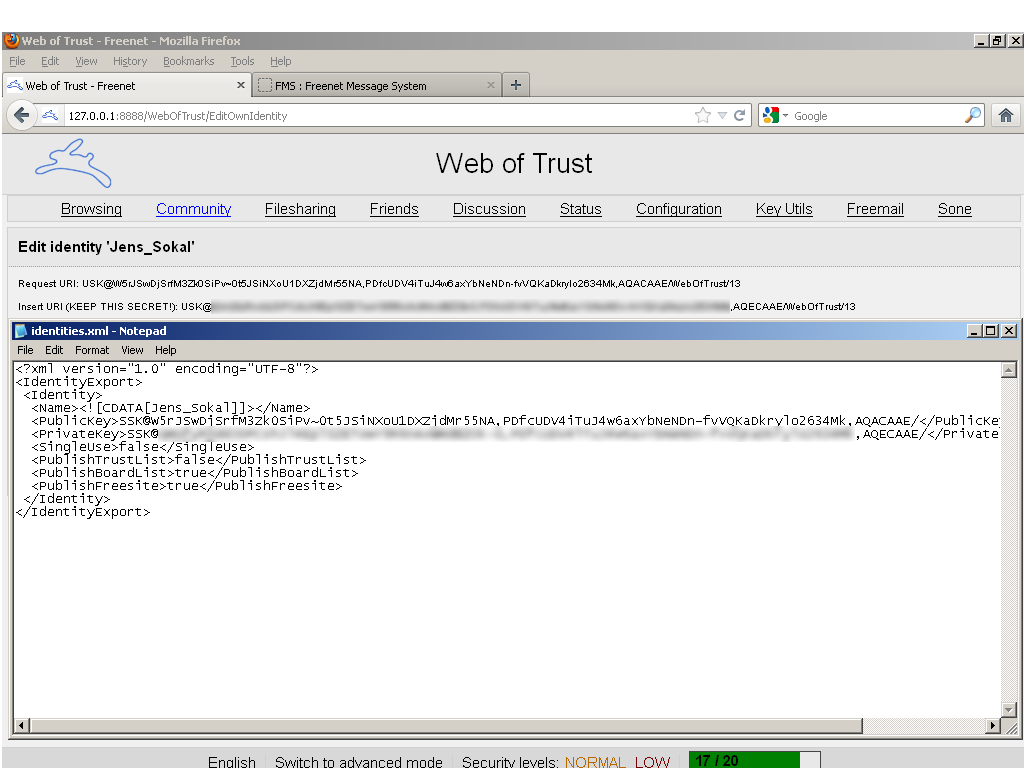
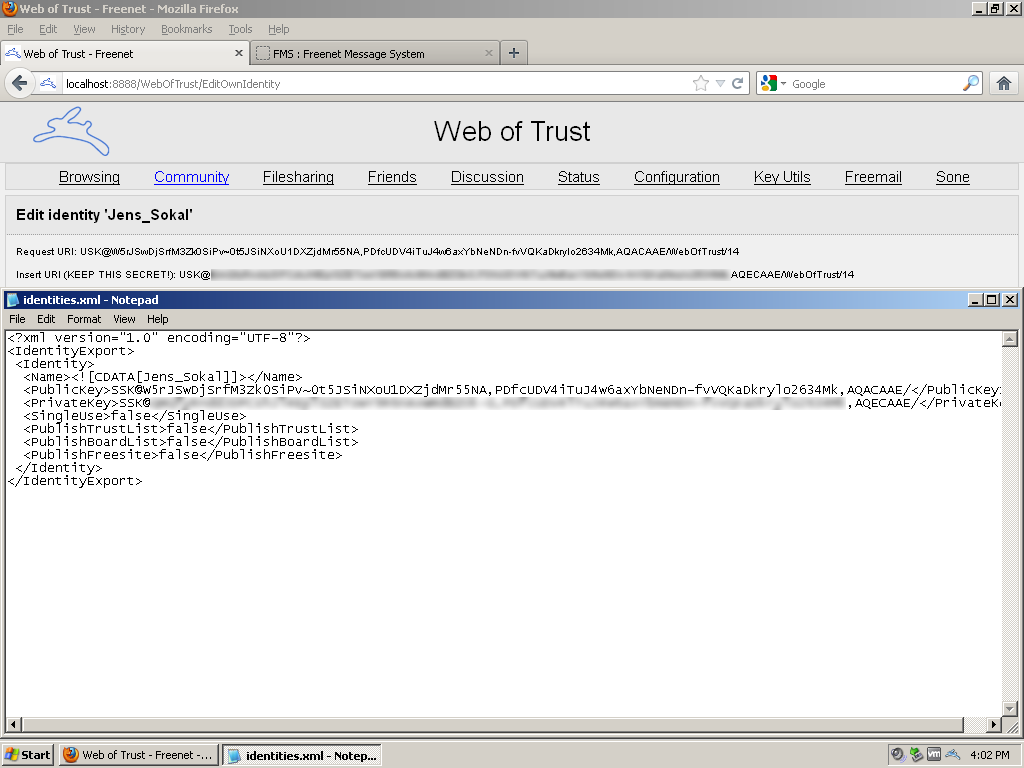
correct identities.xml and improve explaination of WoT-FMS linked identities

diff --git a/fms.html b/fms.html
@@ -81,10 +81,10 @@
 			<p>Go to the Options page.</p>
 			<p><a href="images/setup074.png"><img src="images/setup074.png" width="640" height="480" alt="Step 6" /></a></p>
 		</li>
-		<li><p>Enable WOT support and save.</p>
+		<li><p>Enable WOT to allow FMS to read your WebOfTrust identity. Sone support is unnecessary unless you want to be able to read Sone posts in Thunderbird as well as the web interface.</p>
 			<p><a href="images/setup075.png"><img src="images/setup075.png" width="640" height="480" alt="Step 7" /></a></p>
 		</li>
-		<li>	<p>At this point we're going to import your WoT identity into FMS.</p>
+		<li>	<p>At this point we're going to link your WoT identity to your FMS identity so that posts in both places will come from the same identity.</p>
 			<p>Go to the Local Identities page and then switch tabs back to the Freenet interface.</p>
 			<p><a href="images/setup076.png"><img src="images/setup076.png" width="640" height="480" alt="Step 8" /></a></p>
 		</li>
@@ -104,8 +104,8 @@
   &lt;PrivateKey&gt;SSK@<b>TRANSLATED_INSERT_URI</b>/&lt;/PrivateKey&gt;
   &lt;SingleUse&gt;false&lt;/SingleUse&gt;
   &lt;PublishTrustList&gt;false&lt;/PublishTrustList&gt;
-  &lt;PublishBoardList&gt;true&lt;/PublishBoardList&gt;
-  &lt;PublishFreesite&gt;true&lt;/PublishFreesite&gt;
+  &lt;PublishBoardList&gt;false&lt;/PublishBoardList&gt;
+  &lt;PublishFreesite&gt;false&lt;/PublishFreesite&gt;
  &lt;/Identity&gt;
 &lt;/IdentityExport&gt;</pre>
 			<p>Make sure the format of your keys looks like the example below. They should both start with "SSK@" and end in ",AQECAAE/" (private key) and ",AQACAAE/" (public key).
